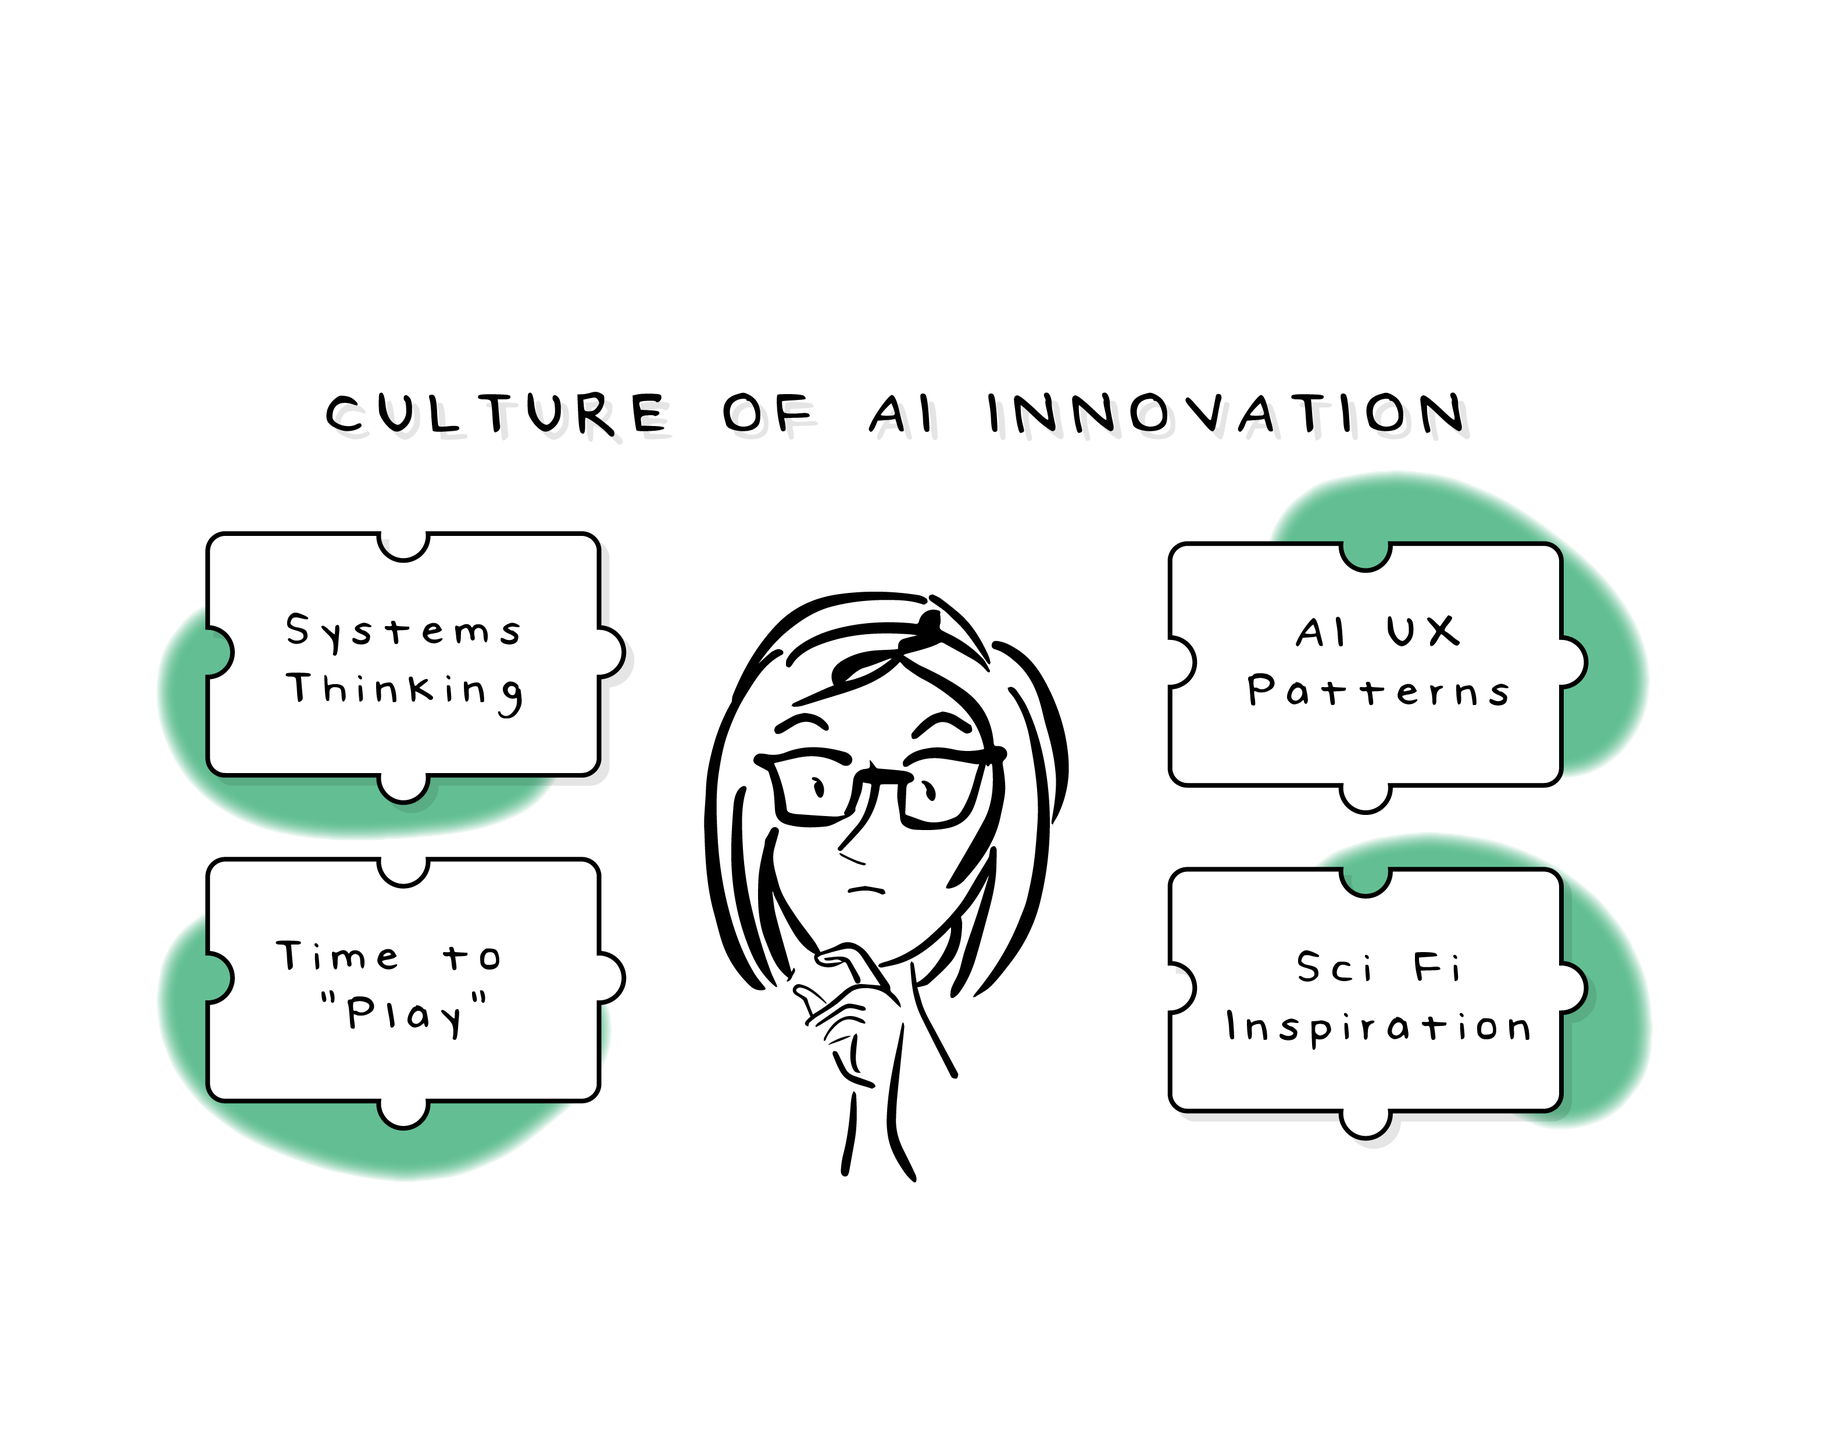
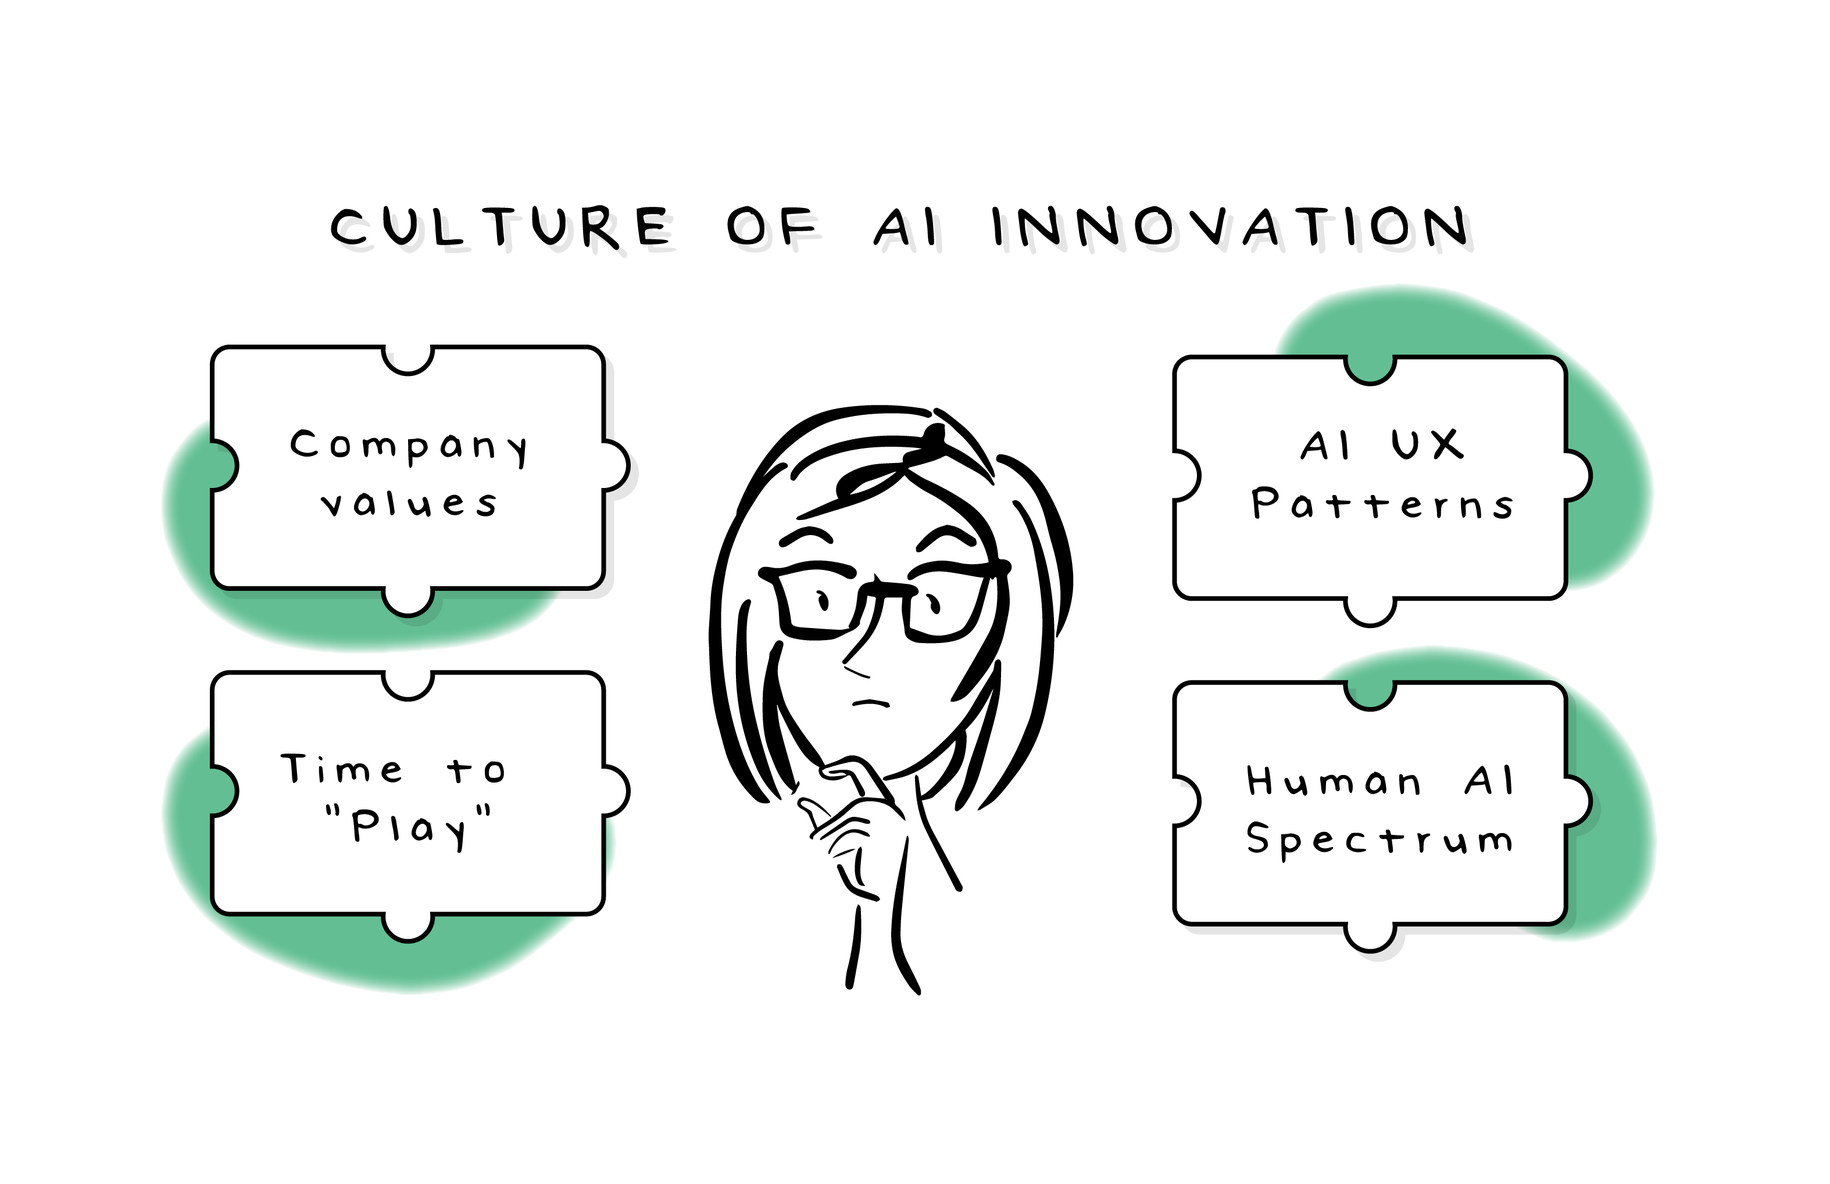
AI Design Culture rewrite + new carousel images

Changed region(s): [[0.1868, 0.1546, 0.9028, 0.8346], [0.0623, 0.2473, 0.4358, 0.8656], [0.3736, 0.34, 0.5915, 0.8346]]

diff --git a/case-studies/AIDesignCulture.html b/case-studies/AIDesignCulture.html
@@ -4,205 +4,181 @@
   <meta charset="UTF-8" />
   <meta name="viewport" content="width=device-width, initial-scale=1.0" />
   <title>Building AI Design Culture — Jenn Kong</title>
-  <link rel="stylesheet" href="../styles.css" />
+  <link rel="preconnect" href="https://fonts.googleapis.com" />
+  <link rel="preconnect" href="https://fonts.gstatic.com" crossorigin="anonymous" />
+  <link href="https://fonts.googleapis.com/css2?family=Playfair+Display:ital,wght@0,300;0,400;0,500;0,700;1,300;1,400&family=DM+Sans:wght@300;400;500;600&display=swap" rel="stylesheet" />
+  <link rel="stylesheet" href="../case-study.css" />
 </head>
-<body>
+<body class="cs-body">
+<div class="cs-page">
 
-  <!-- NAV -->
-  <nav>
-    <a href="../index.html" class="nav-logo">Jenn Kong</a>
-    <a href="../index.html#projects" class="nav-back">← Back to Work</a>
+  <nav class="cs-nav">
+    <a href="../index.html" class="cs-nav__logo">Jenn Kong</a>
+    <a href="../index.html#projects" class="cs-nav__back">&larr; Back to Work</a>
   </nav>
 
-  <!-- HERO -->
-  <section class="case-study-hero">
-    <div class="case-hero-left reveal">
-      <div class="case-tag">Design Leadership · Included Health · 2023–2026</div>
-      <h1>Building AI Design Culture</h1>
-      <p class="case-subtitle">How I shaped the way a healthcare design org thinks about, builds with, and grows through AI.</p>
+  <section class="cs-hero">
+    <div class="cs-hero__text cs-reveal">
+      <div class="cs-hero__tag">Design Leadership &middot; Included Health &middot; 2023&ndash;2026</div>
+      <h1 class="cs-hero__title">Building AI Design <em>Culture</em></h1>
+      <p class="cs-hero__lede" style="font-size: 18px; line-height: 1.7;">How do we help designers think through product development using AI as a core design material?</p>
     </div>
-    <div class="case-hero-right">
-      <img src="../images/AI-Workshop.jpg" alt="AI Design Patterns Workshop" />
+    <div class="cs-hero__media">
+      <img src="../images/aiculture-sketch.png" alt="Culture of AI innovation — systems thinking, time to play, AI UX patterns, sci-fi inspiration" />
     </div>
   </section>
 
-  <!-- OVERVIEW -->
-  <section id="overview">
-    <div class="section-label">Overview</div>
-    <h2>The Work Behind the Work</h2>
-    <div class="divider"></div>
-    <div class="overview-grid reveal">
-      <div class="overview-item">
-        <h3>The Context</h3>
-        <p>As AI reshaped what product teams could build, design needed to evolve too — not just in output, but in mindset, process, and culture. I saw a gap and stepped in to close it.</p>
-      </div>
-      <div class="overview-item">
-        <h3>My Role</h3>
-        <p>Beyond my core product work, I took on org-wide design leadership: running hackathons, establishing AI design principles, and bringing external knowledge back in through hands-on internal workshops.</p>
-      </div>
-      <div class="overview-item">
-        <h3>The Impact</h3>
-        <p>A design team that's more confident, more creative, and better equipped to lead AI product decisions — not just react to them.</p>
+  <section class="cs-section cs-section--sand">
+    <div class="cs-wrap">
+      <div class="cs-label"><span>The Challenge</span></div>
+      <h2 class="cs-h2" style="max-width: 900px;">A team moving fast without a map</h2>
+      <div class="cs-rule cs-rule--tight"></div>
+      <div class="cs-prose cs-reveal">
+        <p>When GenAI took off in 2023, our teams moved fast but without a shared foundation. AI features shipped reactively — shaped by what the technology could do, not what users needed. We didn't yet know how to design for non-deterministic flows, which led to rework and churn. Meanwhile, the gap between engineering and design kept widening, breeding mistrust and siloed work.</p>
+        <blockquote class="cs-quote">"Designers weren't lacking talent or ambition — they lacked a framework."</blockquote>
+        <p>A survey I ran across the design org confirmed it: designers needed structure to evaluate AI's fit and to advocate for users whenever they were in rooms where engineering and product set the agenda.</p>
       </div>
     </div>
   </section>
 
-  <!-- PROBLEM -->
-  <section id="problem">
-    <div class="section-label">The Challenge</div>
-    <h2>A team moving fast without a map</h2>
-    <div class="divider"></div>
-    <div class="problem-content reveal">
-      <p>As GenAI took off in early 2023, product teams at Included Health moved quickly — but without a shared foundation. AI features were getting added reactively, driven more by technology push than user need. The result was a fragmented experience and a design team that felt underprepared to lead.</p>
-      <div class="pull-quote">"Designers weren't lacking talent or ambition — they lacked a framework."</div>
-      <p>A survey I ran across our design org surfaced the core gap: designers needed structure for how to think about AI, evaluate its fit, and advocate for users in rooms where engineers and PMs were setting the agenda.</p>
-      <p>The opportunity wasn't just to design better AI features. It was to build a culture where designers could lead AI conversations with confidence — and bring the rest of the org with them.</p>
-    </div>
-  </section>
-
-  <!-- SOLUTION -->
-  <section id="solution">
-    <div class="section-label">The Approach</div>
-    <h2>Three ways I shaped the culture</h2>
-    <div class="divider"></div>
-    <div class="solution-grid reveal">
-      <div class="solution-text">
-        <p>Rather than waiting for culture to change on its own, I created the conditions for it — through structured innovation, principled design standards, and continuous learning brought back from the outside in.</p>
-        <p>The three pillars of this work:</p>
-        <ul class="solution-list">
-          <li>Hackathons that brought engineering, product, and design together to build, experiment, and stretch creatively — turning cross-functional energy into shipped features</li>
-          <li>A set of AI design values, principles, and UI patterns that gave the team a shared language and a user-centered foundation for every AI experience we built</li>
-          <li>Internal workshops translating external certifications into practical, hands-on learning — making sure new knowledge didn't stop at me</li>
-        </ul>
+  <section class="cs-section cs-section--white">
+    <div class="cs-wrap">
+      <div class="cs-label"><span>The Approach</span></div>
+      <h2 class="cs-h2">Three ways I shaped the culture</h2>
+      <div class="cs-rule"></div>
+      <div class="cs-grid-3 cs-reveal">
+        <div class="cs-phase">
+          <div class="cs-phase__n">01</div>
+          <h3>Hackathons</h3>
+          <p>Cross-functional hackathons where engineering, product and design built together. Designers went from polishing ideas to prototyping them.</p>
+        </div>
+        <div class="cs-phase">
+          <div class="cs-phase__n">02</div>
+          <h3>AI Design Principles</h3>
+          <p>Values, principles and reusable UI patterns that gave every AI experience we shipped a shared, user-centered standard.</p>
+        </div>
+        <div class="cs-phase">
+          <div class="cs-phase__n">03</div>
+          <h3>Innovation Workshop</h3>
+          <p>Bringing it all together, I co-led a workshop to give designers a framework to understand how to think about AI features and build an AI-based product that can meet user's needs, is feasible for engineering and aligns to the company's value system.</p>
+        </div>
       </div>
-      <div>
-        <div class="carousel-wrapper">
-          <div class="carousel-track" id="carouselTrack">
-            <div class="carousel-slide fit-contain"><img src="../images/AI-UX-patterns.png" alt="AI UX design patterns framework" /></div>
-            <div class="carousel-slide"><img src="../images/AI-Workshop.jpg" alt="AI design workshop in session" /></div>
-            <div class="carousel-slide fit-contain"><img src="../images/Kong-sketch_notes.png" alt="Sketchnotes from Rosenfeld Media talk" /></div>
+
+      <div class="cs-carousel cs-reveal" style="margin-top: 64px;">
+        <div class="cs-carousel__frame" id="csFrame">
+          <div class="cs-carousel__track" id="csTrack">
+            <div class="cs-carousel__slide"><img src="../images/AI_process.png" alt="AI product process" /></div>
+            <div class="cs-carousel__slide"><img src="../images/AI_principles.png" alt="AI product principles" /></div>
+            <div class="cs-carousel__slide"><img src="../images/online_brainstorm.png" alt="Online brainstorm board" /></div>
+            <div class="cs-carousel__slide"><img src="../images/hackathon-live.jpeg" alt="Hackathon kickoff" /></div>
+            <div class="cs-carousel__slide"><img src="../images/AI-Workshop.jpg" alt="AI design workshop in session" /></div>
           </div>
-          <button class="carousel-btn carousel-btn-prev" onclick="moveCarousel(-1)">‹</button>
-          <button class="carousel-btn carousel-btn-next" onclick="moveCarousel(1)">›</button>
+          <button class="cs-carousel__btn cs-carousel__btn--prev" onclick="csMove(-1, event)">&lsaquo;</button>
+          <button class="cs-carousel__btn cs-carousel__btn--next" onclick="csMove(1, event)">&rsaquo;</button>
         </div>
-        <div class="carousel-dots" id="carouselDots">
-          <button class="carousel-dot active" onclick="goToSlide(0)"></button>
-          <button class="carousel-dot" onclick="goToSlide(1)"></button>
-          <button class="carousel-dot" onclick="goToSlide(2)"></button>
+        <div class="cs-carousel__dots">
+          <button class="cs-carousel__dot is-active" onclick="csGoTo(0)"></button>
+          <button class="cs-carousel__dot" onclick="csGoTo(1)"></button>
+          <button class="cs-carousel__dot" onclick="csGoTo(2)"></button>
+          <button class="cs-carousel__dot" onclick="csGoTo(3)"></button>
+          <button class="cs-carousel__dot" onclick="csGoTo(4)"></button>
         </div>
-        <div class="carousel-caption" id="carouselCaption">AI UX design patterns framework</div>
+        <div class="cs-carousel__caption"><span id="csCaption">AI product process</span> &middot; Click to enlarge</div>
       </div>
     </div>
   </section>
 
-  <!-- PROCESS -->
-  <section id="process">
-    <div class="section-label">How It Came Together</div>
-    <h2>Three pillars, in depth</h2>
-    <div class="divider"></div>
-    <div class="process-timeline reveal">
-      <div class="timeline-item">
-        <div class="timeline-step">01</div>
-        <h3>Hackathons</h3>
-        <p>I organized cross-functional hackathons for engineering, product, and design to experiment freely and build together. The format grew participation 10x — creating a culture where designers felt empowered to prototype ideas, not just polish them.</p>
-      </div>
-      <div class="timeline-item">
-        <div class="timeline-step">02</div>
-        <h3>AI Design Principles</h3>
-        <p>I established a set of AI design values, principles, and reusable UI patterns grounded in a user-centered process. These became the foundation for every AI experience we shipped — giving the team a shared standard to design from and evaluate against.</p>
-      </div>
-      <div class="timeline-item">
-        <div class="timeline-step">03</div>
-        <h3>External Learning, Brought In</h3>
-        <p>I earned certifications in OOUX, communication strategy, and AI product design — and ran a practical internal workshop after each one. Learning didn't stop at me; it became a resource for the whole org.</p>
-      </div>
-      <div class="timeline-item">
-        <div class="timeline-step">04</div>
-        <h3>Scaling the Mindset</h3>
-        <p>By modeling the process, building reusable tools, and creating space for experimentation, I helped move the org from reactive AI adoption to intentional AI design.</p>
+  <section class="cs-section cs-section--sand">
+    <div class="cs-wrap">
+      <div class="cs-label"><span>Impact</span></div>
+      <h2 class="cs-h2" style="max-width: 900px;">From reactive AI adoption to intentional AI design</h2>
+      <div class="cs-rule"></div>
+      <div class="cs-results cs-reveal">
+        <div class="cs-result">
+          <div class="cs-result__stat">50%</div>
+          <div class="cs-result__label">Hackathon Ideas Shipped</div>
+          <p>Half of all hackathon prototypes made it into the product.</p>
+        </div>
+        <div class="cs-result">
+          <div class="cs-result__stat">10&times;</div>
+          <div class="cs-result__label">Designer Participation</div>
+          <p>Designer involvement in hackathons grew tenfold after I took over the program.</p>
+        </div>
+        <div class="cs-result">
+          <div class="cs-result__stat">80%</div>
+          <div class="cs-result__label">Confidence Boost</div>
+          <p>After the innovation workshops, designers reported feeling more confident (4/5) when approaching a design that could require an&nbsp;AI-based feature.</p>
+        </div>
       </div>
     </div>
   </section>
 
-  <!-- RESULTS -->
-  <section id="results">
-    <div class="section-label">Impact</div>
-    <h2>Results that compounded across the org</h2>
-    <div class="divider"></div>
-    <div class="results-grid reveal">
-      <div class="result-card">
-        <div class="result-stat">50%</div>
-        <div class="result-label">Hackathon Ideas Shipped</div>
-        <p class="result-desc">Half of all features prototyped during hackathons made it into the product — a direct pipeline from creative experimentation to real user value.</p>
+  <section class="cs-section cs-section--stone">
+    <div class="cs-wrap cs-cta cs-reveal">
+      <div>
+        <div class="cs-label"><span>More Work</span></div>
+        <h2 class="cs-cta__title">See this thinking applied to <em>information architecture</em></h2>
       </div>
-      <div class="result-card">
-        <div class="result-stat">10×</div>
-        <div class="result-label">Designer Participation</div>
-        <p class="result-desc">Designer involvement in hackathons grew tenfold after I took over leadership — the format finally felt relevant and empowering for the design discipline.</p>
-      </div>
-      <div class="result-card">
-        <div class="result-stat">75%</div>
-        <div class="result-label">Employee Morale Boost</div>
-        <p class="result-desc">Three quarters of employees reported a morale lift tied to the hackathon program — building camaraderie and creative energy across engineering, product, and design.</p>
+      <div class="cs-cta__right">
+        <p>How object-oriented UX untangled conversations and cases in our member app.</p>
+        <a href="InformationArchitecture.html" class="cs-btn">See the IA Re-design &rarr;</a>
       </div>
     </div>
   </section>
 
-  <!-- CTA -->
-  <section class="case-study-cta reveal">
-    <div>
-      <div class="section-label">More Work</div>
-      <h2>See how this culture-building translated into a <em>production AI product.</em></h2>
-    </div>
-    <div>
-      <p>The Dot Platform case study shows the full arc — from vision alignment to brand identity to a shipped multi-agent healthcare assistant.</p>
-      <a href="DotPlatform.html" class="btn btn-primary">See the Dot Platform →</a>
-    </div>
-  </section>
+  <footer class="cs-footer">&copy; 2026 Jenn Kong &middot; Designed with care</footer>
 
-  <!-- FOOTER -->
-  <footer>
-    <span>© 2026 Jenn Kong · Designed with care</span>
-  </footer>
+</div>
 
-  <script>
-    const captions = [
-      'AI UX design patterns framework',
-      'AI design workshop in session',
-      'Sketchnotes from Rosenfeld Media talk'
-    ];
-    let current = 0;
-    const total = 3;
+<script>
+  var csSrcs = ["../images/AI_process.png","../images/AI_principles.png","../images/online_brainstorm.png","../images/hackathon-live.jpeg","../images/AI-Workshop.jpg"];
+  var csCaptions = ["AI product process","AI product principles","Online brainstorm board","Hackathon kickoff","AI design workshop in session"];
+  var csCurrent = 0;
+  var csTotal = csSrcs.length;
+  var csTimer;
 
-    function updateCarousel() {
-      document.getElementById('carouselTrack').style.transform = `translateX(-${current * 100}%)`;
-      document.getElementById('carouselCaption').textContent = captions[current];
-      document.querySelectorAll('.carousel-dot').forEach((dot, i) => {
-        dot.classList.toggle('active', i === current);
-      });
-    }
+  function csUpdate() {
+    document.getElementById('csTrack').style.transform = 'translateX(-' + (csCurrent * 100) + '%)';
+    document.getElementById('csCaption').textContent = csCaptions[csCurrent];
+    var dots = document.querySelectorAll('.cs-carousel__dot');
+    for (var i = 0; i < dots.length; i++) dots[i].classList.toggle('is-active', i === csCurrent);
+  }
+  function csStart() {
+    clearInterval(csTimer);
+    csTimer = setInterval(function () { csCurrent = (csCurrent + 1) % csTotal; csUpdate(); }, 5000);
+  }
+  function csMove(dir, e) {
+    if (e) e.stopPropagation();
+    clearInterval(csTimer);
+    csCurrent = (csCurrent + dir + csTotal) % csTotal;
+    csUpdate();
+  }
+  function csGoTo(i) { clearInterval(csTimer); csCurrent = i; csUpdate(); }
 
-    let isPaused = false;
-    let autoPlay;
+  document.getElementById('csFrame').addEventListener('click', function (e) {
+    if (e.target.tagName === 'BUTTON') return;
+    clearInterval(csTimer);
+    var box = document.createElement('div');
+    box.className = 'cs-lightbox';
+    var img = document.createElement('img');
+    img.src = csSrcs[csCurrent];
+    img.alt = csCaptions[csCurrent];
+    box.appendChild(img);
+    function close() { box.remove(); document.removeEventListener('keydown', onKey); }
+    function onKey(ev) { if (ev.key === 'Escape') close(); }
+    box.addEventListener('click', close);
+    document.addEventListener('keydown', onKey);
+    document.body.appendChild(box);
+  });
 
-    function startAutoPlay() {
-      clearInterval(autoPlay);
-      autoPlay = setInterval(() => { current = (current + 1) % total; updateCarousel(); }, 4000);
-    }
-    function pauseCarousel() { clearInterval(autoPlay); }
-    function resumeCarousel() { if (!isPaused) startAutoPlay(); }
-    function moveCarousel(dir) { current = (current + dir + total) % total; updateCarousel(); isPaused = true; pauseCarousel(); }
-    function goToSlide(i) { current = i; updateCarousel(); }
+  csStart();
 
-    startAutoPlay();
-    document.querySelector('.carousel-wrapper').addEventListener('mouseenter', pauseCarousel);
-    document.querySelector('.carousel-wrapper').addEventListener('mouseleave', resumeCarousel);
-
-    // Scroll reveal
-    const observer = new IntersectionObserver(entries => {
-      entries.forEach(e => { if (e.isIntersecting) { e.target.classList.add('visible'); observer.unobserve(e.target); } });
-    }, { threshold: 0.08 });
-    document.querySelectorAll('.reveal').forEach(el => observer.observe(el));
-  </script>
+  var csObserver = new IntersectionObserver(function (entries) {
+    entries.forEach(function (e) {
+      if (e.isIntersecting) { e.target.classList.add('is-visible'); csObserver.unobserve(e.target); }
+    });
+  }, { threshold: 0.08 });
+  document.querySelectorAll('.cs-reveal').forEach(function (el) { csObserver.observe(el); });
+</script>
 </body>
 </html>
